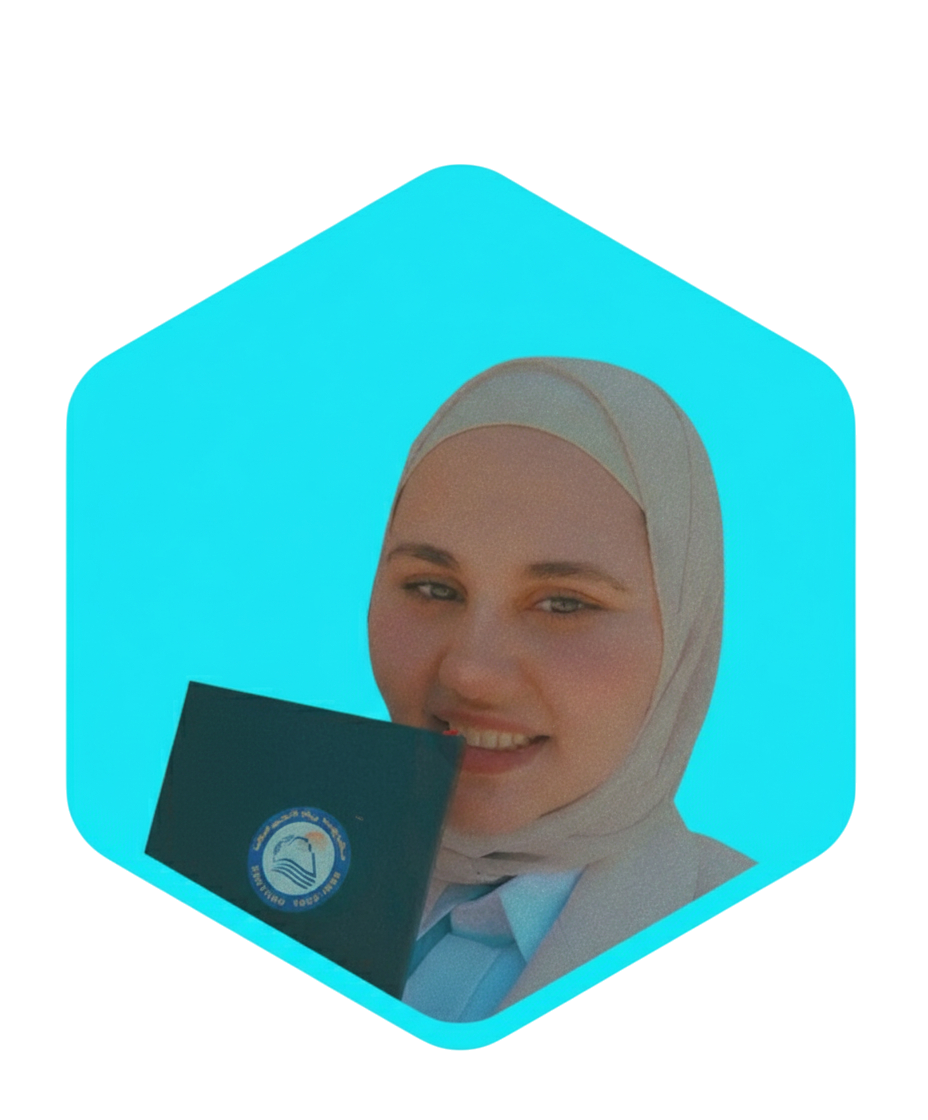
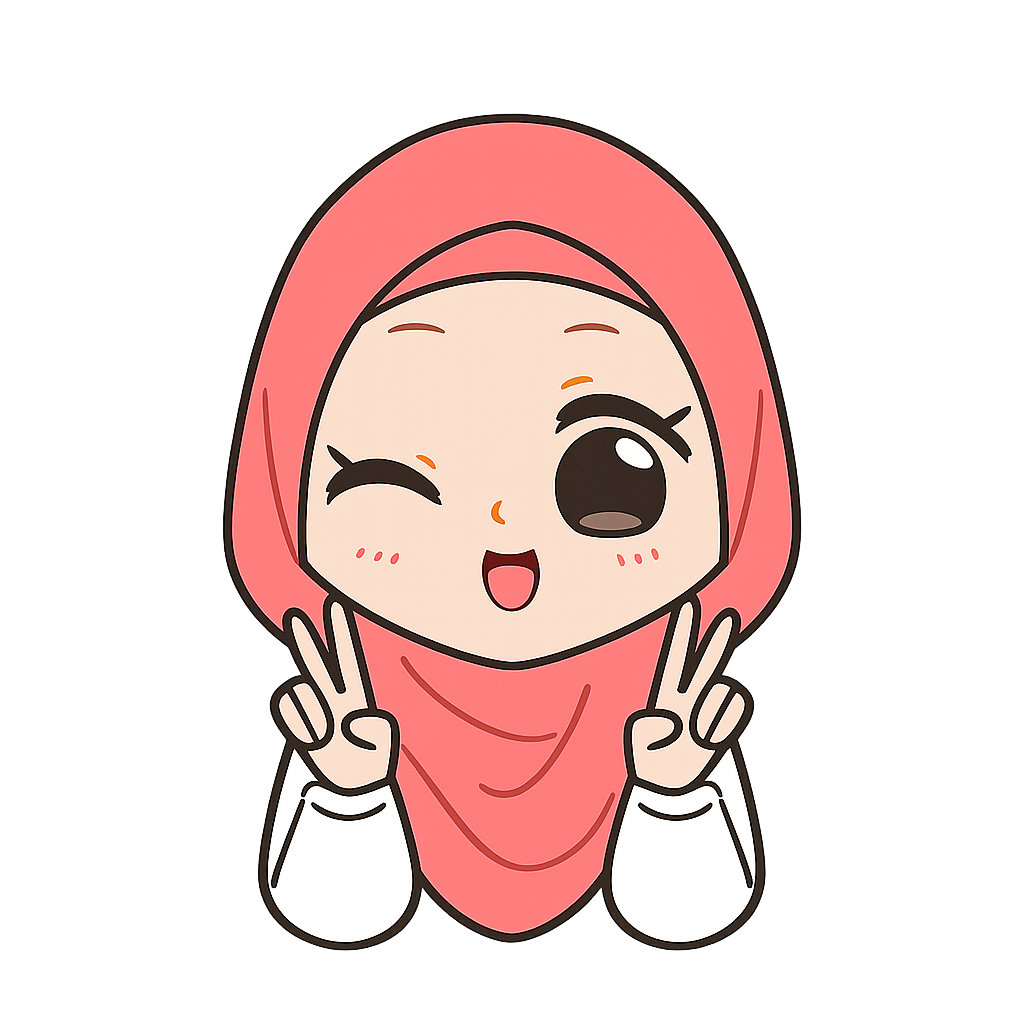
port

diff --git a/index.html b/index.html
@@ -14,7 +14,7 @@
 
     <!-- header design -->
       <header class="header">
-        <a href="#" class="logo">Protfolio</a>
+        <a href="#" class="logo">Shahd</a>
 
         <i class='bx bx-menu' id="menu-icon" ></i> 
 
@@ -42,7 +42,7 @@
                 </div>
 
 
-<a href="https://drive.google.com/file/d/1Zg9ilp5YZLoWcxpTI6EsQiwLSChnAb9b/view?usp=sharing" class="btn" target="_blank">Download CV</a>
+<a href="https://drive.google.com/file/d/10oVffH0tTe7xQTcDi0e6n1J_8EH-YPbV/view?usp=drive_link" class="btn" target="_blank">Download CV</a>
 
         </div>
         <div class="home-img">
@@ -53,7 +53,7 @@
        <!-- about section details -->
         <section class="about" id="about">
           <div class="img-about">
-            <img src="./imges/about.png" alt="">
+            <img src="./imges/home.png" alt="">
           </div>
           <div class="about-info">
             <h2 class="heading">
@@ -111,51 +111,31 @@
         <div class="portofolio-container">
             <div class="box">
             <div class="portofolio-layer">
-              <h3>Web Design</h3>
-              <p>Clinic & Medical Health Center website built using React.js, featuring clean medical UI, responsive layout, and reusable components.</p>
-               <a href="https://shahed-mo.github.io/Clinic-Medical-Health-Center-React/" class="btn"><i class="bx bx-link-external"></i></a>
+              <h3>Chat App</h3>
+              <p>Real-time Chat Application built with React and Firebase,redux toolkit</p>
+               <a href="https://chat-app-9m8g.vercel.app/" class="btn" target="_blank"><i class="bx bx-link-external"></i></a>
+            </div>
+            <img src="./imges/chat.png">
+          </div>
+             <div class="box">
+            <div class="portofolio-layer">
+              <h3>Employee Management Dashboard</h3>
+              <p>A full-featured Employee Management Dashboard built with React,
+                 React Query, and JSON Server. Supports CRUD operations, 
+                 role-based access, and responsive UI.</p>
+               <a href="https://github.com/shahed-mo/employee-management-dashboard" class="btn" target="_blank"><i class="bx bx-link-external"></i></a>
+            </div>
+            <img src="./imges/employee.png">
+          </div>
+             <div class="box">
+            <div class="portofolio-layer">
+              <h3>Clinic & Medical Health Center</h3>
+              <p>Clinic & Medical Health 
+                Center website built using React.js, featuring clean medical UI
+                , responsive layout, and reusable components.</p>
+               <a href="https://shahed-mo.github.io/Clinic-Medical-Health-Center-React/" class="btn" target="_blank"><i class="bx bx-link-external"></i></a>
             </div>
             <img src="./imges/clinic.jpg">
-          </div>
-            <div class="box">
-            <div class="portofolio-layer">
-              <h3>Web Design</h3>
-              <p>A modern and responsive jewelry store website built with HTML, CSS, and JavaScript.
-                The project focuses on a clean UI, smooth user experience, 
-                and full responsiveness across all devices, especially very small mobile screens.</p>
-               <a href="https://shahed-mo.github.io/Jewelry-Store-Website/html/home.html" class="btn"><i class="bx bx-link-external"></i></a>
-            </div>
-            <img src="./imges/jewellery.png">
-          </div>
-            <div class="box">
-            <div class="portofolio-layer">
-              <h3>Web Design</h3>
-              <p>AboutResponsive Admin Dashboard Using HTML CSS & JavaScript with Light & Dark Mode</p>
-               <a href="https://shahed-mo.github.io/adminDashboard/" class="btn"><i class="bx bx-link-external"></i></a>
-            </div>
-            <img src="./imges/dah.png">
-          </div>
-            <div class="box">
-            <div class="portofolio-layer">
-              <h3>Web Design</h3>
-              <p>Lorem ipsum dolor 
-              sit amet consectetur
-               adipisicing elit. Mollitia 
-               incidunt veniam hic. Distinctio vel consequatur, natus veritatis voluptas ullam minima!</p>
-               <a href="https://shahed-mo.github.io/To-Do-List-/" class="btn"><i class="bx bx-link-external"></i></a>
-            </div>
-            <img src="./imges/todoReact.png">
-          </div>
-            <div class="box">
-            <div class="portofolio-layer">
-              <h3>Web Design</h3>
-              <p>Lorem ipsum dolor 
-              sit amet consectetur
-               adipisicing elit. Mollitia 
-               incidunt veniam hic. Distinctio vel consequatur, natus veritatis voluptas ullam minima!</p>
-               <a href="https://shahed-mo.github.io/Weather-app/" class="btn"><i class="bx bx-link-external"></i></a>
-            </div>
-            <img src="./imges/p5.png">
           </div>
         </div>
          </section>

diff --git a/style/index.css b/style/index.css
@@ -12,12 +12,12 @@
 }
 
 :root {
-    --bg-color: #1f242d;
-    --second-bg-color: #323946;
-    --text-color:#fff;
-    --main-color:#0ef;
+    --bg-color: #0b0e14;
+    --second-bg-color: #151921;
+    --text-color: #f5f5f5;
+    --main-color: #ff3c78; 
+    --gradient: linear-gradient(135deg, #ff3c78 0%, #ff8c00 100%);
 }
-
 html{
     font-size: 62.5%;
     
@@ -56,6 +56,9 @@ body{
 }
 .navbar a:hover,
 .navbar a.active{
+    color: var(--main-color);
+}
+.nav a.active{
     color: var(--main-color);
 }
 #menu-icon{
@@ -118,16 +121,19 @@ section {
 
 .btn {
     display: inline-block;
-    padding: 10px 30px;
-    background-color: var(--main-color);
-    border: 0.2rem solid var(--main-color);
-    color: var(--second-bg-color);
-    font-size: 1.4rem;
+    padding: 1.2rem 3rem;
+    background: var(--gradient);
     border-radius: 4rem;
-    font-weight: bold;
-    letter-spacing: 0.1rem;
-    transition: box-shadow var(--trans) ease;
-    box-shadow: 0 0 1rem var(--main-color);
+    font-size: 1.6rem;
+    color: #fff;
+    letter-spacing: .1rem;
+    font-weight: 600;
+    transition: .5s ease;
+    box-shadow: 0 4px 15px rgba(255, 60, 120, 0.3);
+}
+.btn:hover {
+    box-shadow: 0 8px 25px rgba(255, 60, 120, 0.5);
+    transform: translateY(-3px);
 }
 
 @keyframes upDown {

diff --git a/js/index.js b/js/index.js
@@ -6,3 +6,12 @@ menuIcon.onclick = () => {
     menuIcon.classList.toggle('bx-x');
     navbar.classList.toggle('active');
 };
+
+const links = document.querySelectorAll('.navbar a');
+
+links.forEach((link)=>{
+    link.addEventListener('click',()=>{
+        links.forEach(l=>l.classList.remove('active'));
+        link.classList.add('active');
+    })
+})
